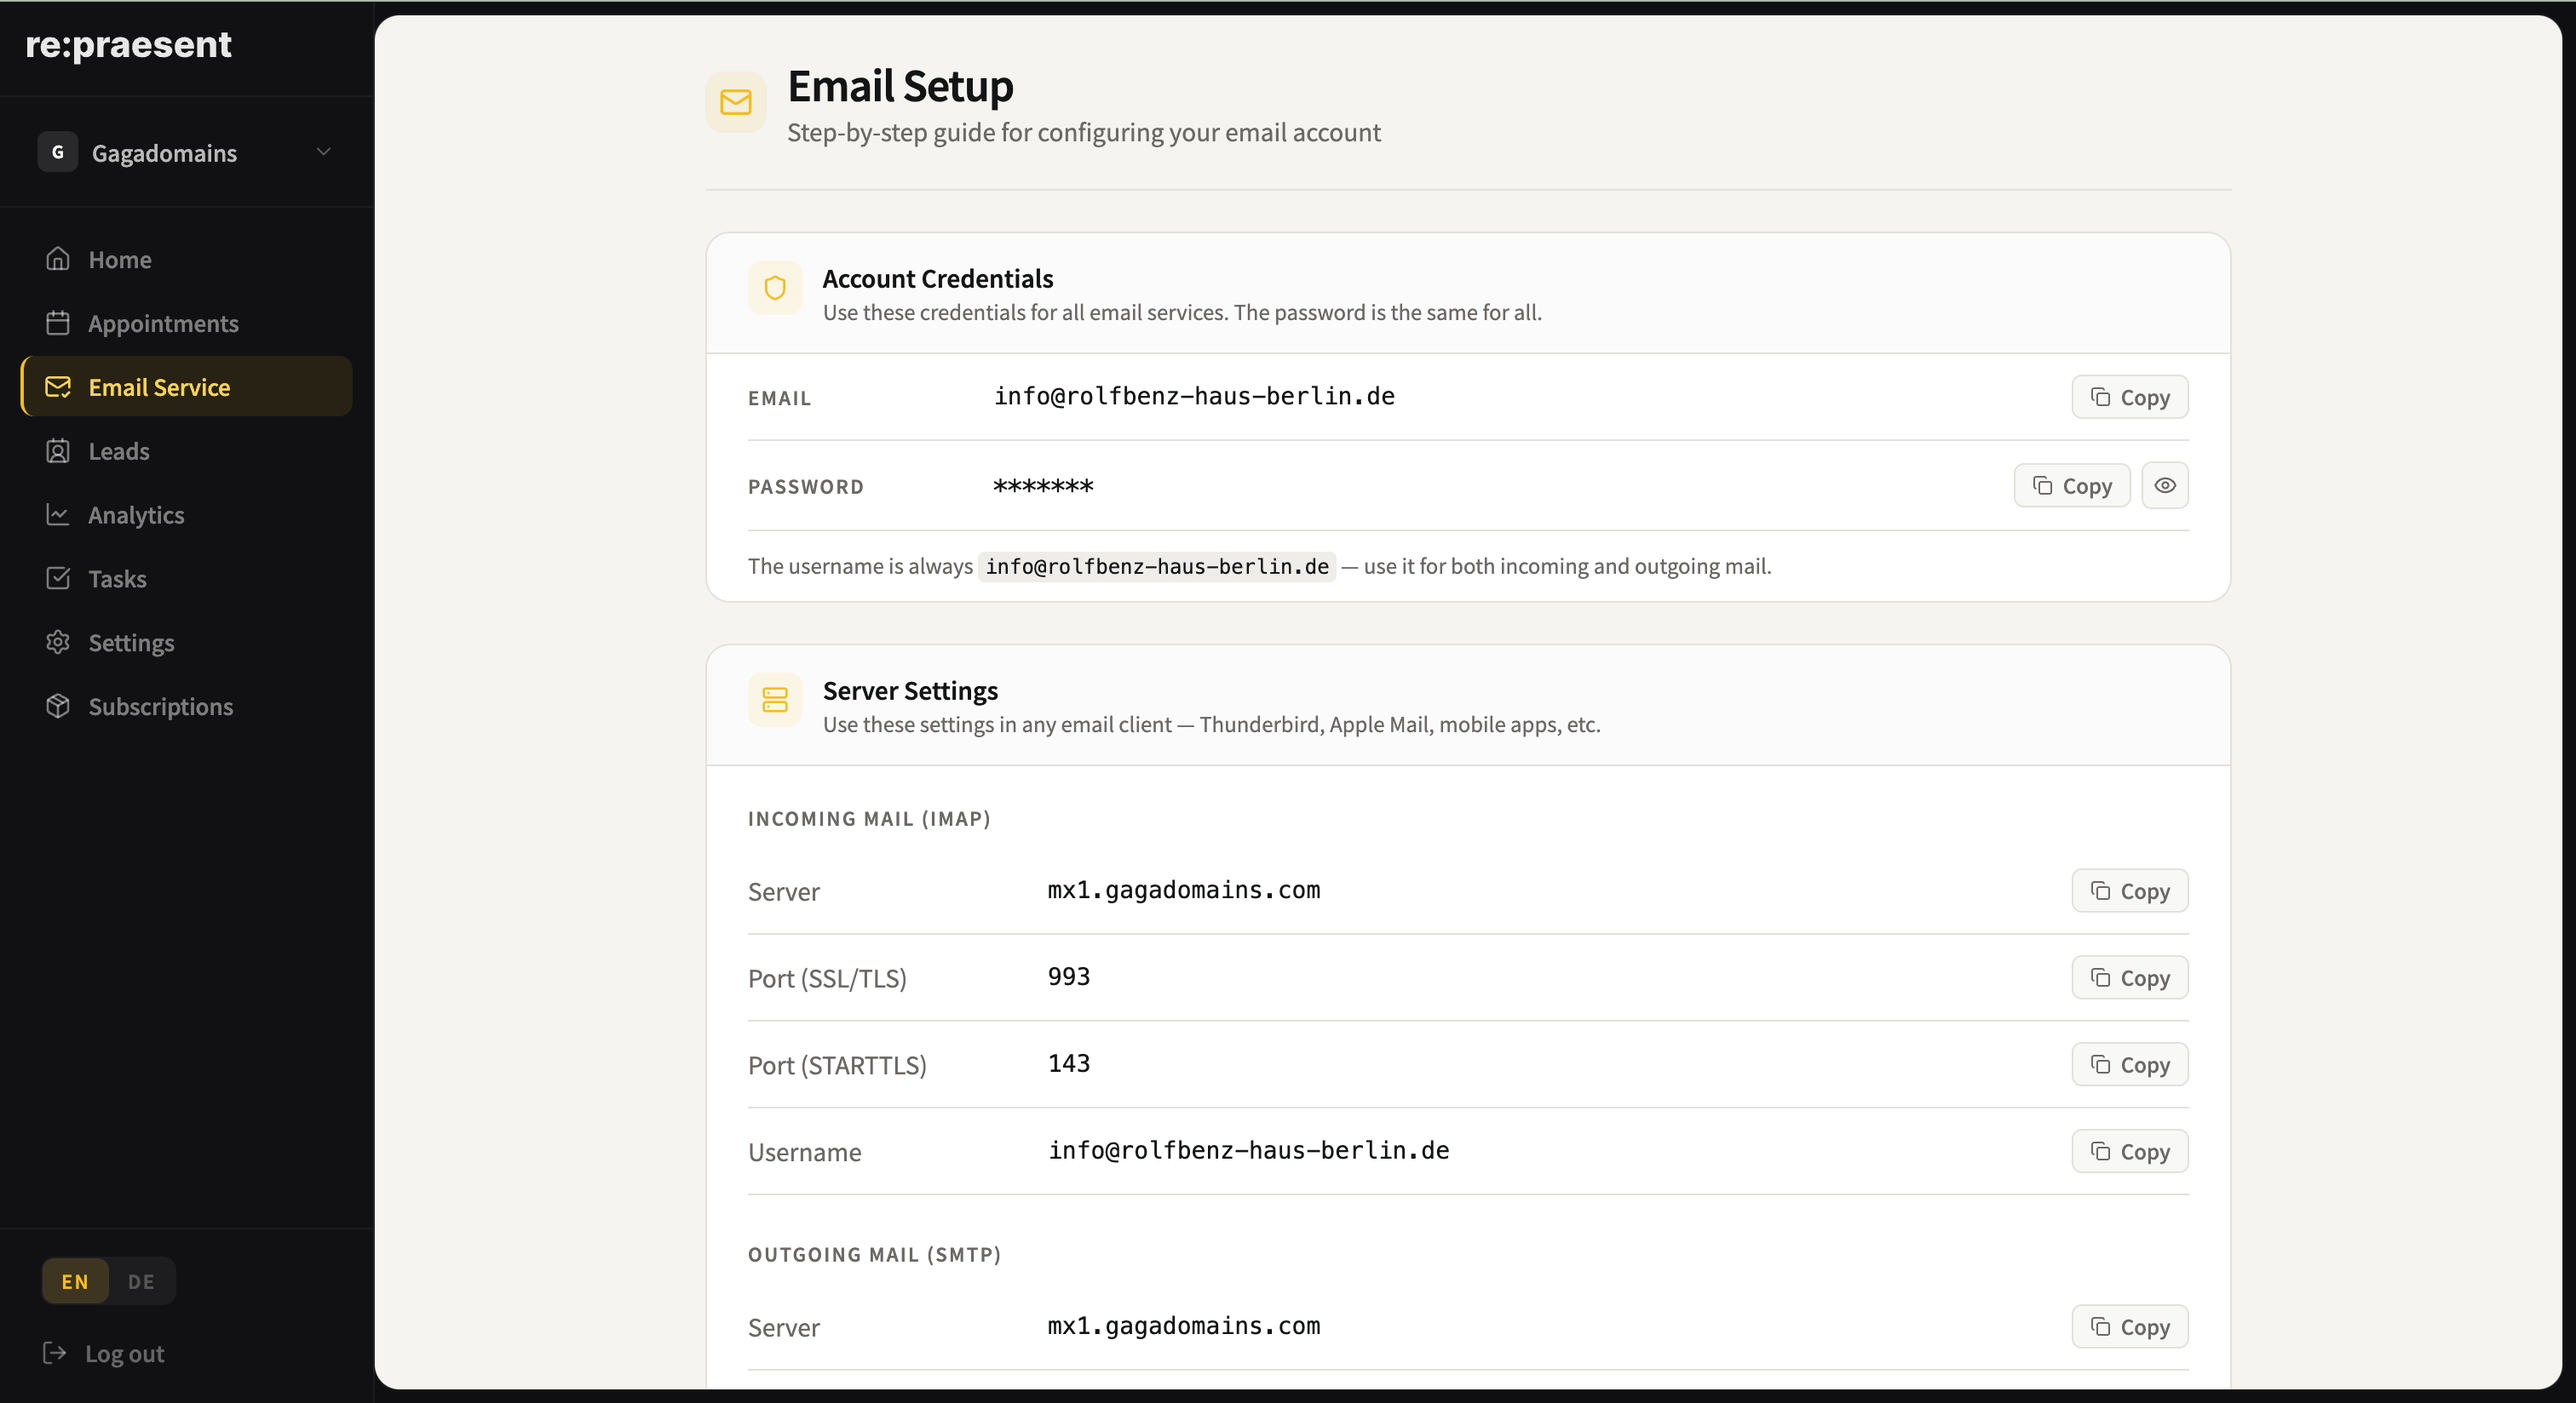
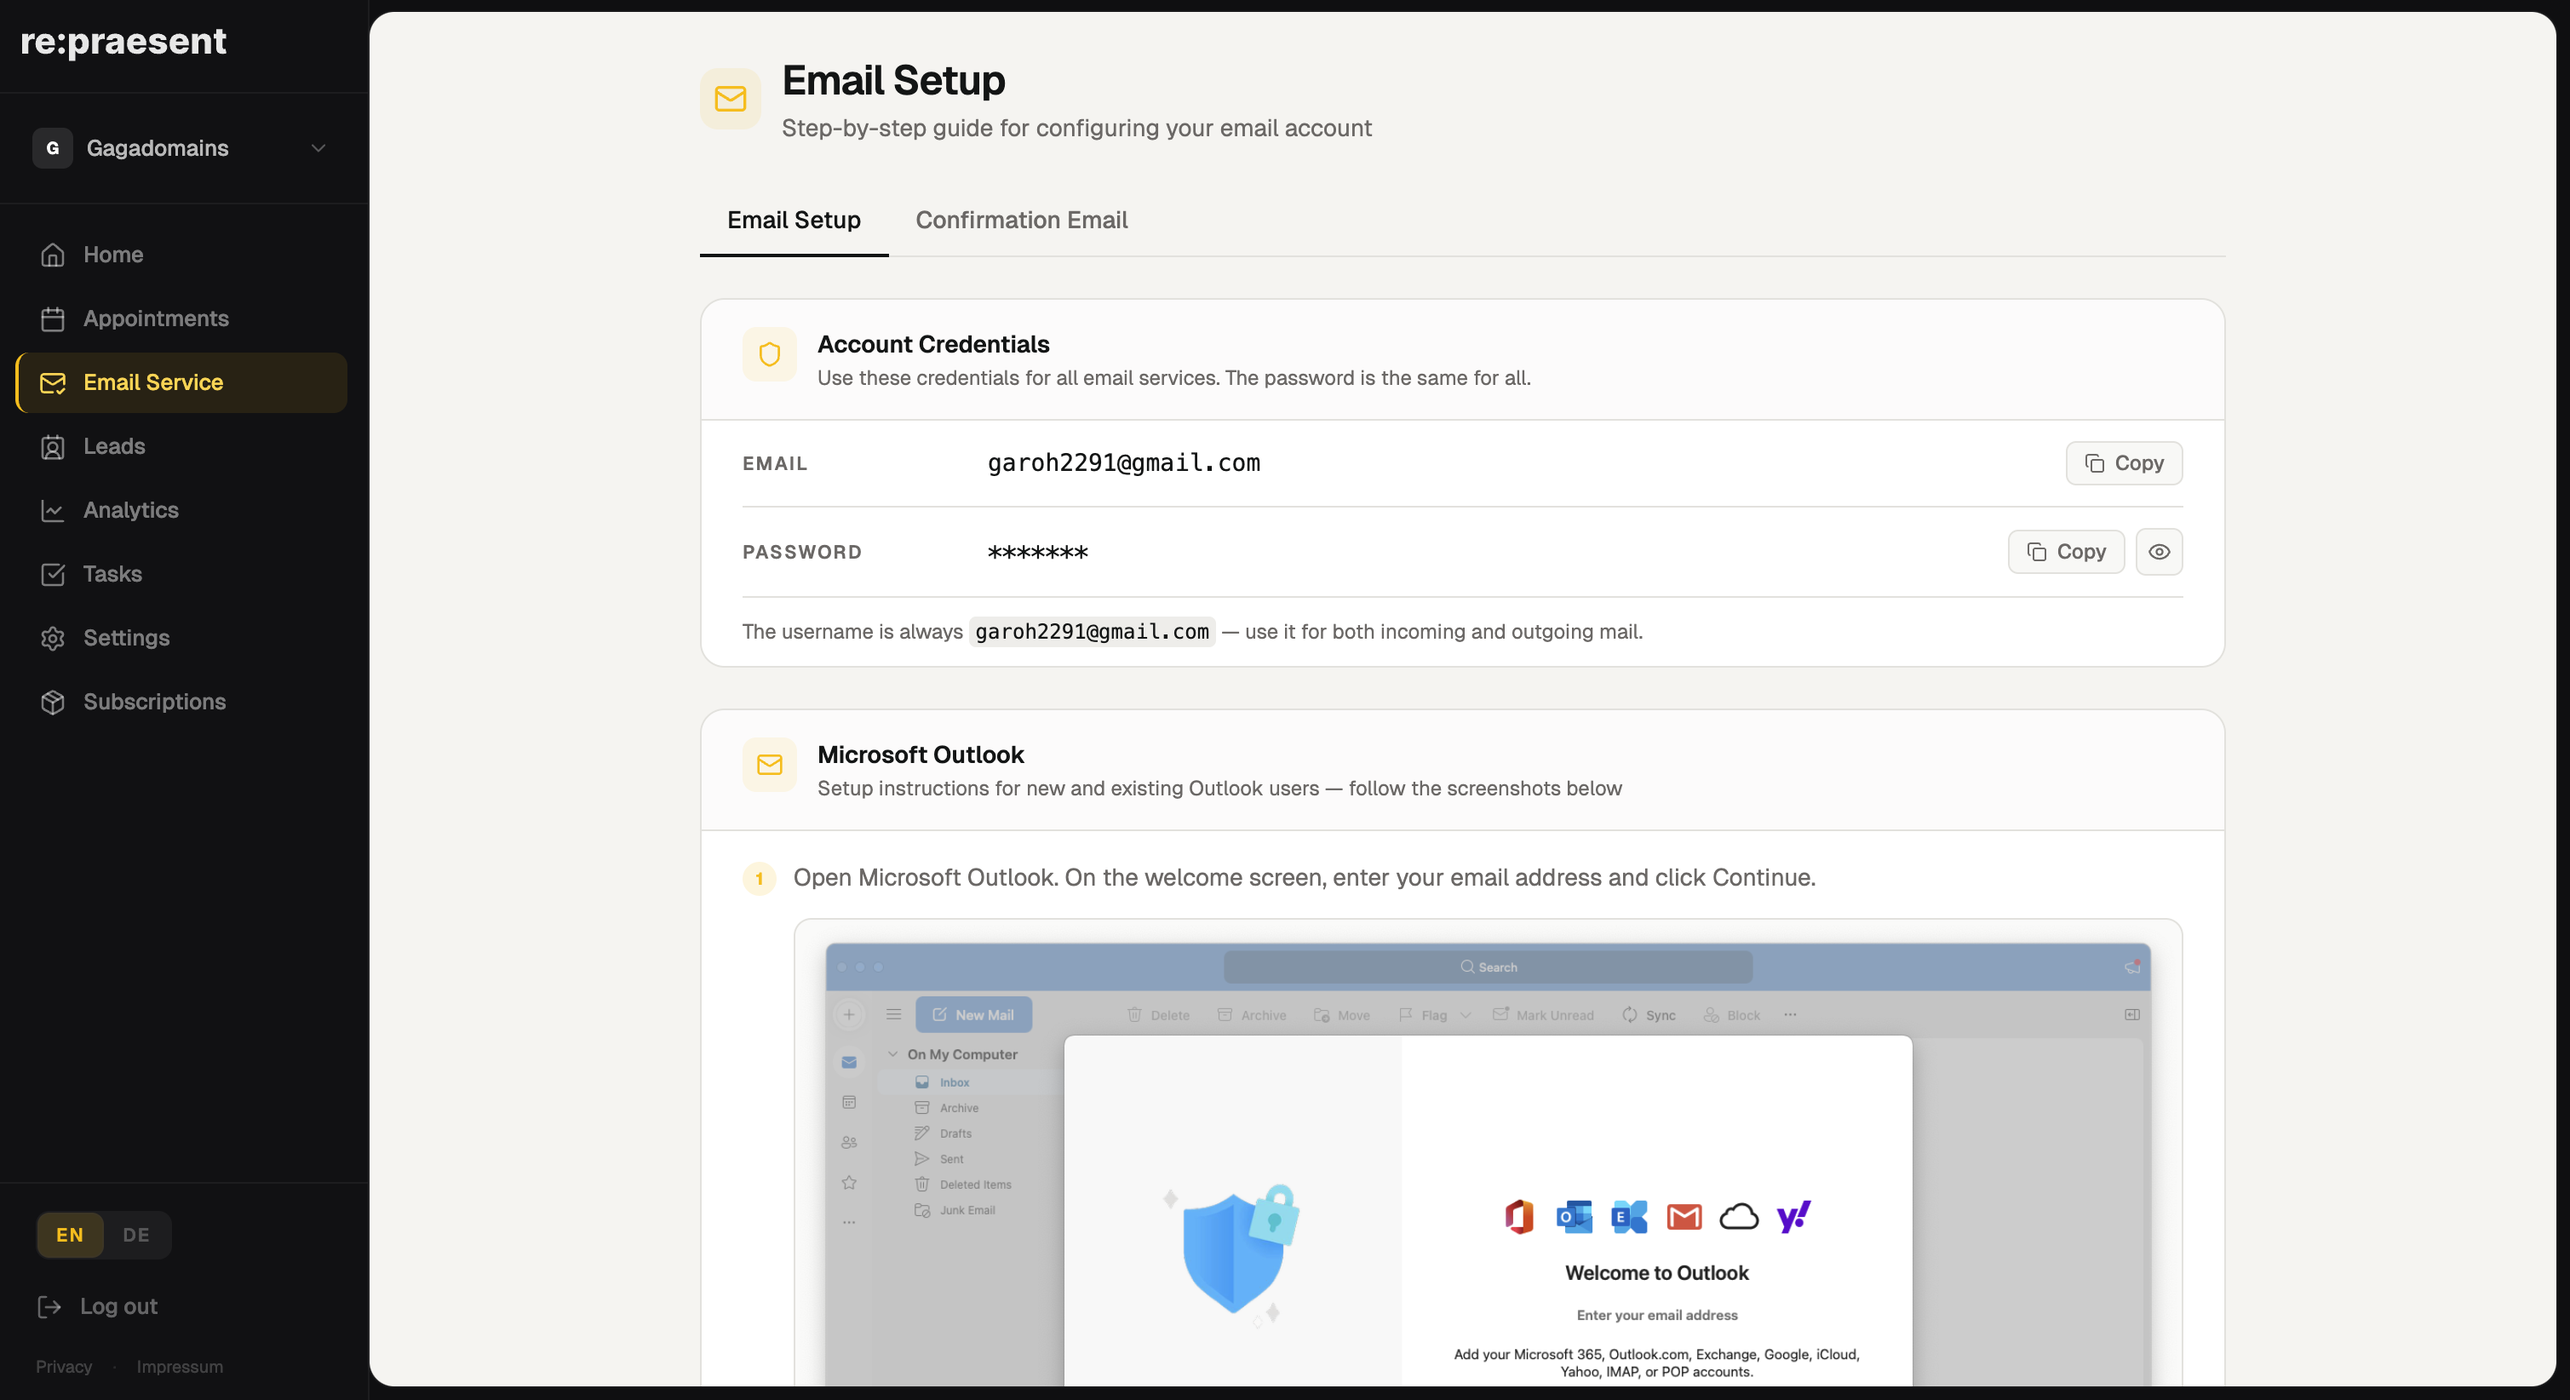
change fallback to confirm

diff --git a/app/routes/lead-form.fallback.tsx b/app/routes/lead-form.fallback.tsx
@@ -15,7 +15,6 @@ import {
   type LeadFallbackSourceConfig,
 } from "~/lib/api/workspaces";
 import {
-  ArrowLeft,
   Mail,
   Globe,
   CalendarDays,
@@ -30,11 +29,12 @@ import {
 } from "lucide-react";
 import { cn } from "~/lib/utils";
 import TooltipContainer from "~/components/tooltip-container";
+import { EmailTabs } from "~/components/email-tabs";
 
 export function meta() {
   return [
-    { title: "Lead Fallback — Repraesent" },
-    { name: "description", content: "Configure lead fallback emails" },
+    { title: "Confirmation Email — Repraesent" },
+    { name: "description", content: "Configure confirmation emails for new leads" },
   ];
 }
 
@@ -446,7 +446,7 @@ export default function LeadFallbackPage() {
 
   useEffect(() => {
     if (currentWorkspace && (!hasLeadForm || !hasEmailConfig)) {
-      navigate("/lead-form", { replace: true });
+      navigate("/email", { replace: true });
     }
   }, [currentWorkspace, hasLeadForm, hasEmailConfig, navigate]);
 
@@ -590,31 +590,25 @@ export default function LeadFallbackPage() {
     <div className="app-fade-in flex flex-col min-h-[calc(100vh-8rem)] p-4 sm:p-6 gap-0">
       {/* ── Page header ── */}
       <div className="shrink-0 pb-5">
-        <button
-          type="button"
-          onClick={() => navigate("/lead-form")}
-          className="flex items-center gap-1.5 text-xs text-muted-foreground hover:text-foreground transition-colors mb-4"
-        >
-          <ArrowLeft className="h-3.5 w-3.5" />
-          {t("leadFallback.backToLeads")}
-        </button>
-
-        <div className="flex items-center gap-3">
-          <div className="flex h-9 w-9 shrink-0 items-center justify-center rounded-xl bg-foreground text-background">
-            <Mail className="h-4 w-4" />
-          </div>
-          <div>
-            <h1 className="text-xl font-semibold text-foreground tracking-tight leading-none">
-              {t("leadFallback.title")}
-            </h1>
-            <p className="text-xs text-muted-foreground mt-1">
-              {t("leadFallback.subtitle")}
-            </p>
+        <div className="app-fade-up flex items-start justify-between gap-4 pb-4">
+          <div className="flex items-center gap-3">
+            <div className="flex h-9 w-9 items-center justify-center rounded-xl bg-amber-400/10">
+              <Mail className="h-5 w-5 text-amber-400" />
+            </div>
+            <div>
+              <h1 className="text-xl sm:text-2xl font-semibold text-foreground tracking-tight">
+                {t("email.tabConfirmation")}
+              </h1>
+              <p className="text-sm text-muted-foreground mt-0.5">
+                {t("leadFallback.subtitle")}
+              </p>
+            </div>
           </div>
         </div>
+        <EmailTabs />
       </div>
 
-      <div className="border-t border-border mb-5 shrink-0" />
+      <div className="h-1 shrink-0" />
 
       {isLoading ? (
         <div className="flex flex-1 items-center justify-center">

diff --git a/app/routes/lead-form.tsx b/app/routes/lead-form.tsx
@@ -19,7 +19,7 @@ import { useLeadsViewMode } from "~/lib/hooks/useLocalStorage";
 import { useCanEditLeads } from "~/lib/hooks/useCanEditLeads";
 import { useUpdateLeadStatus } from "~/lib/hooks/useUpdateLeadStatus";
 import { format } from "date-fns";
-import { ArrowRight, LayoutGrid, Table2, Upload, X, Mail } from "lucide-react";
+import { ArrowRight, LayoutGrid, Table2, Upload, X } from "lucide-react";
 import { cn } from "~/lib/utils";
 import { LeadImportModal } from "~/components/organism/lead-import-modal";
 
@@ -162,15 +162,6 @@ export default function LeadForm() {
     currentWorkspace?.services?.some((s) => s.service_type === "lead-form") ??
     false;
 
-  const hasEmailConfigService =
-    currentWorkspace?.services?.some(
-      (s) => s.service_type === "email-config" || s.service_slug === "email-config"
-    ) ?? false;
-
-  const fallbackButtonTooltip = !hasEmailConfigService
-    ? "Email Contact service not activated. Contact our support team to order this service."
-    : undefined;
-
   if (!hasAccess) {
     return null;
   }
@@ -295,37 +286,6 @@ export default function LeadForm() {
           </p>
         </div>
         <div className="flex flex-wrap items-center gap-2">
-          <TooltipContainer
-            tooltipContent={fallbackButtonTooltip ?? ""}
-            showCopyButton={false}
-            side="bottom"
-            delayDuration={200}
-            disableTooltip={!fallbackButtonTooltip}
-          >
-            {!hasEmailConfigService ? (
-              <div className="cursor-not-allowed inline-flex">
-                <Button
-                  variant="outline"
-                  size="sm"
-                  disabled
-                  className="h-9 gap-1.5 text-xs pointer-events-none opacity-50"
-                >
-                  <Mail className="h-3.5 w-3.5" />
-                  {t("leads.leadFallback")}
-                </Button>
-              </div>
-            ) : (
-              <Button
-                variant="outline"
-                size="sm"
-                onClick={() => navigate("/lead-form/fallback")}
-                className="h-9 gap-1.5 text-xs"
-              >
-                <Mail className="h-3.5 w-3.5" />
-                {t("leads.leadFallback")}
-              </Button>
-            )}
-          </TooltipContainer>
           {canEdit && (
             <Button
               variant="outline"

diff --git a/app/components/email-tabs.tsx b/app/components/email-tabs.tsx
@@ -1,0 +1,40 @@
+import { NavLink } from "react-router";
+import { useTranslation } from "react-i18next";
+import { cn } from "~/lib/utils";
+
+export function EmailTabs() {
+  const { t } = useTranslation();
+  return (
+    <div className="border-b border-border">
+      <nav className="-mb-px flex">
+        <NavLink
+          to="/email"
+          end
+          className={({ isActive }) =>
+            cn(
+              "px-4 py-2.5 text-sm font-medium border-b-2 transition-colors",
+              isActive
+                ? "border-foreground text-foreground"
+                : "border-transparent text-muted-foreground hover:text-foreground"
+            )
+          }
+        >
+          {t("email.tabConfig")}
+        </NavLink>
+        <NavLink
+          to="/email/confirmation"
+          className={({ isActive }) =>
+            cn(
+              "px-4 py-2.5 text-sm font-medium border-b-2 transition-colors",
+              isActive
+                ? "border-foreground text-foreground"
+                : "border-transparent text-muted-foreground hover:text-foreground"
+            )
+          }
+        >
+          {t("email.tabConfirmation")}
+        </NavLink>
+      </nav>
+    </div>
+  );
+}

diff --git a/app/routes.ts b/app/routes.ts
@@ -27,7 +27,7 @@ export default [
       index("routes/home.tsx"),
       route("products", "routes/products.tsx"),
       route("lead-form", "routes/lead-form.tsx"),
-      route("lead-form/fallback", "routes/lead-form.fallback.tsx"),
+      route("email/confirmation", "routes/lead-form.fallback.tsx"),
       route("lead-form/:leadId", "routes/lead-form.$leadId.tsx"),
       route("appointments", "routes/appointments.tsx"),
       route("analytics", "routes/analytics.tsx"),

diff --git a/app/routes/email.tsx b/app/routes/email.tsx
@@ -19,6 +19,7 @@ import {
   getServiceConfig,
   decryptEmailConfigPassword,
 } from "~/lib/api/workspaces";
+import { EmailTabs } from "~/components/email-tabs";
 
 export function meta() {
   return [
@@ -311,7 +312,7 @@ export default function Emails() {
           </div>
         </div>
 
-        <div className="border-t border-border" />
+        <EmailTabs />
 
         {/* Not configured */}
         {!isConfigured && !isPending ? (
